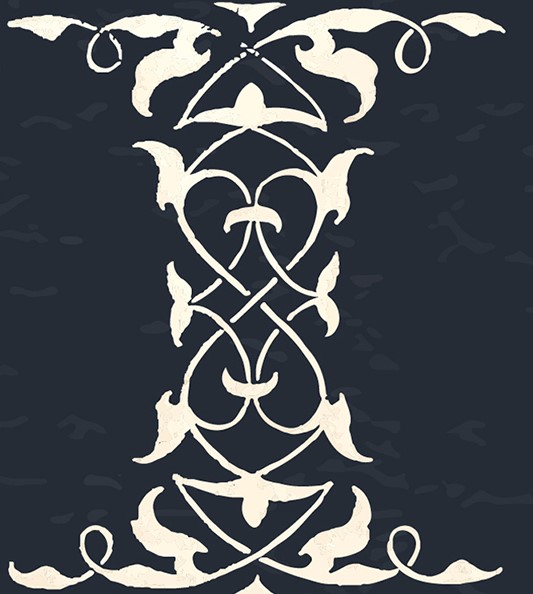
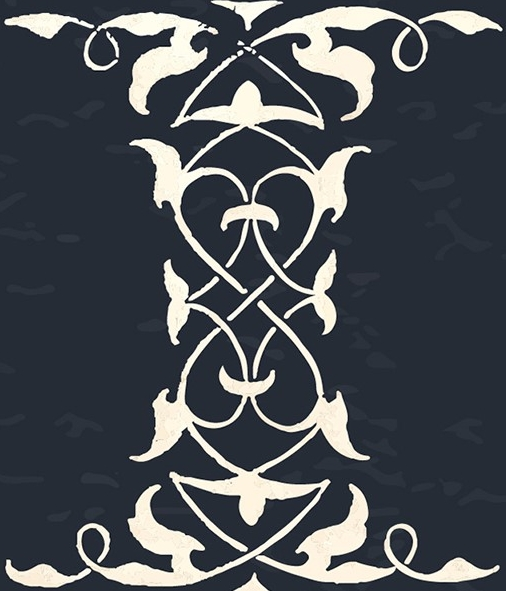
ER-10 Correction on Pole image, add textarea and blocks to forums_ic, modify Profile page

Changed region(s): [[0.0, 0.0, 1.0, 1.0], [0.0889, 0.0609, 0.1186, 0.0914]]

diff --git a/src/app/forums_ic/page.tsx b/src/app/forums_ic/page.tsx
@@ -11,12 +11,28 @@ export default function IC() {
 
   return (
     <>
+      {isAuth && (
+        <>
+          <div className={styles.border}>
+            <div className={fill.fill}>
+              <textarea cols={50} rows={10}></textarea>
+            </div>
+          </div>
+          <Pole />
+        </>
+      )}
+
       <div className={styles.border}>
         <div className={fill.fill}>
-          IC Forums
-          <div>Logged IN --- {isAuth.toString()}</div>
-          {/* <div>userID --- {userID}</div>
-          <div>sessionData --- {sessionData}</div> */}
+          <div>Helyszinfa</div>
+        </div>
+      </div>
+
+      <Pole />
+
+      <div className={styles.border}>
+        <div className={fill.fill}>
+          <div>Reagok</div>
         </div>
       </div>
     </>

diff --git a/src/app/profile/page.tsx b/src/app/profile/page.tsx
@@ -32,7 +32,6 @@ export default function Profile() {
     <>
       <div className={styles.border}>
         <div className={fill.fill}>
-          Profile
           {isAuth && (
             <>
               <div>Firstname {(player as Player)?.firstname}</div>
